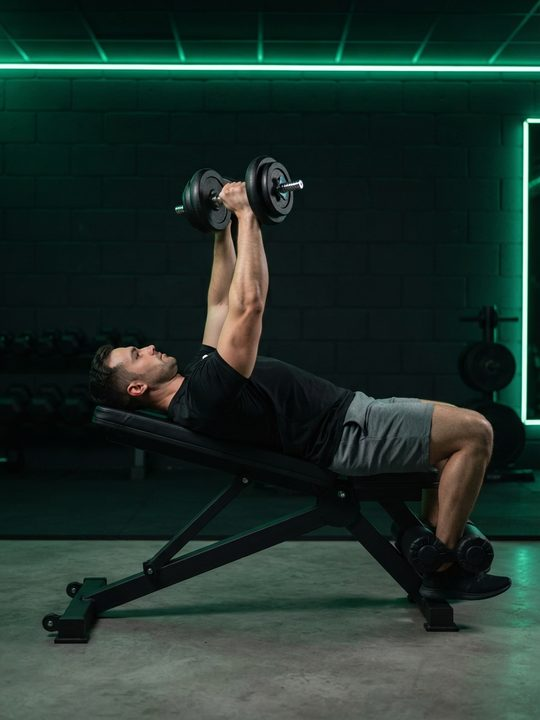
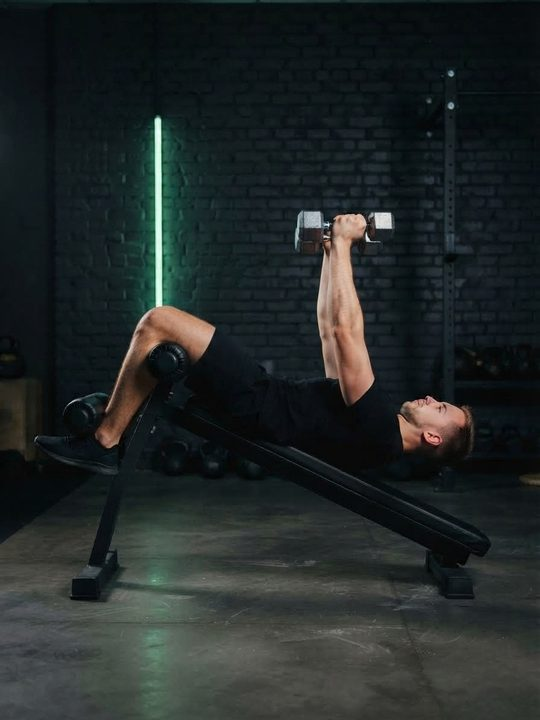
Instruktionsbilder+GIFs: decline_dumbbell_bench_press (m/w), Decline per Referenzbild-Edit
Claude-Session: https://claude.ai/code/session_01PvyiLGJFyas6muFwwubScP

diff --git a/script.js b/script.js
@@ -528,7 +528,7 @@ function renderOverview() {
 // V8-04: Wochenplan-Einträge (haben trainingId) sind anklickbar -> Detailseite mit Dauer/Kalorien.
 // V6-08: Verlauf als Foto-Kacheln mit Wochenkopf, Gruppierung nach Woche/Monat.
 let imgSet = new Set();
-fetch('img/index.json?v=26').then(r => r.json()).then(a => { imgSet = new Set(a); }).catch(() => {});
+fetch('img/index.json?v=27').then(r => r.json()).then(a => { imgSet = new Set(a); }).catch(() => {});
 function slugOf(g) { return (g || '').replace(/^gifs\//, '').replace(/\.gif$/, ''); }
 // Foto passend zum Profil (m/w); ohne Foto -> GIF
 function imgOf(ex) {
